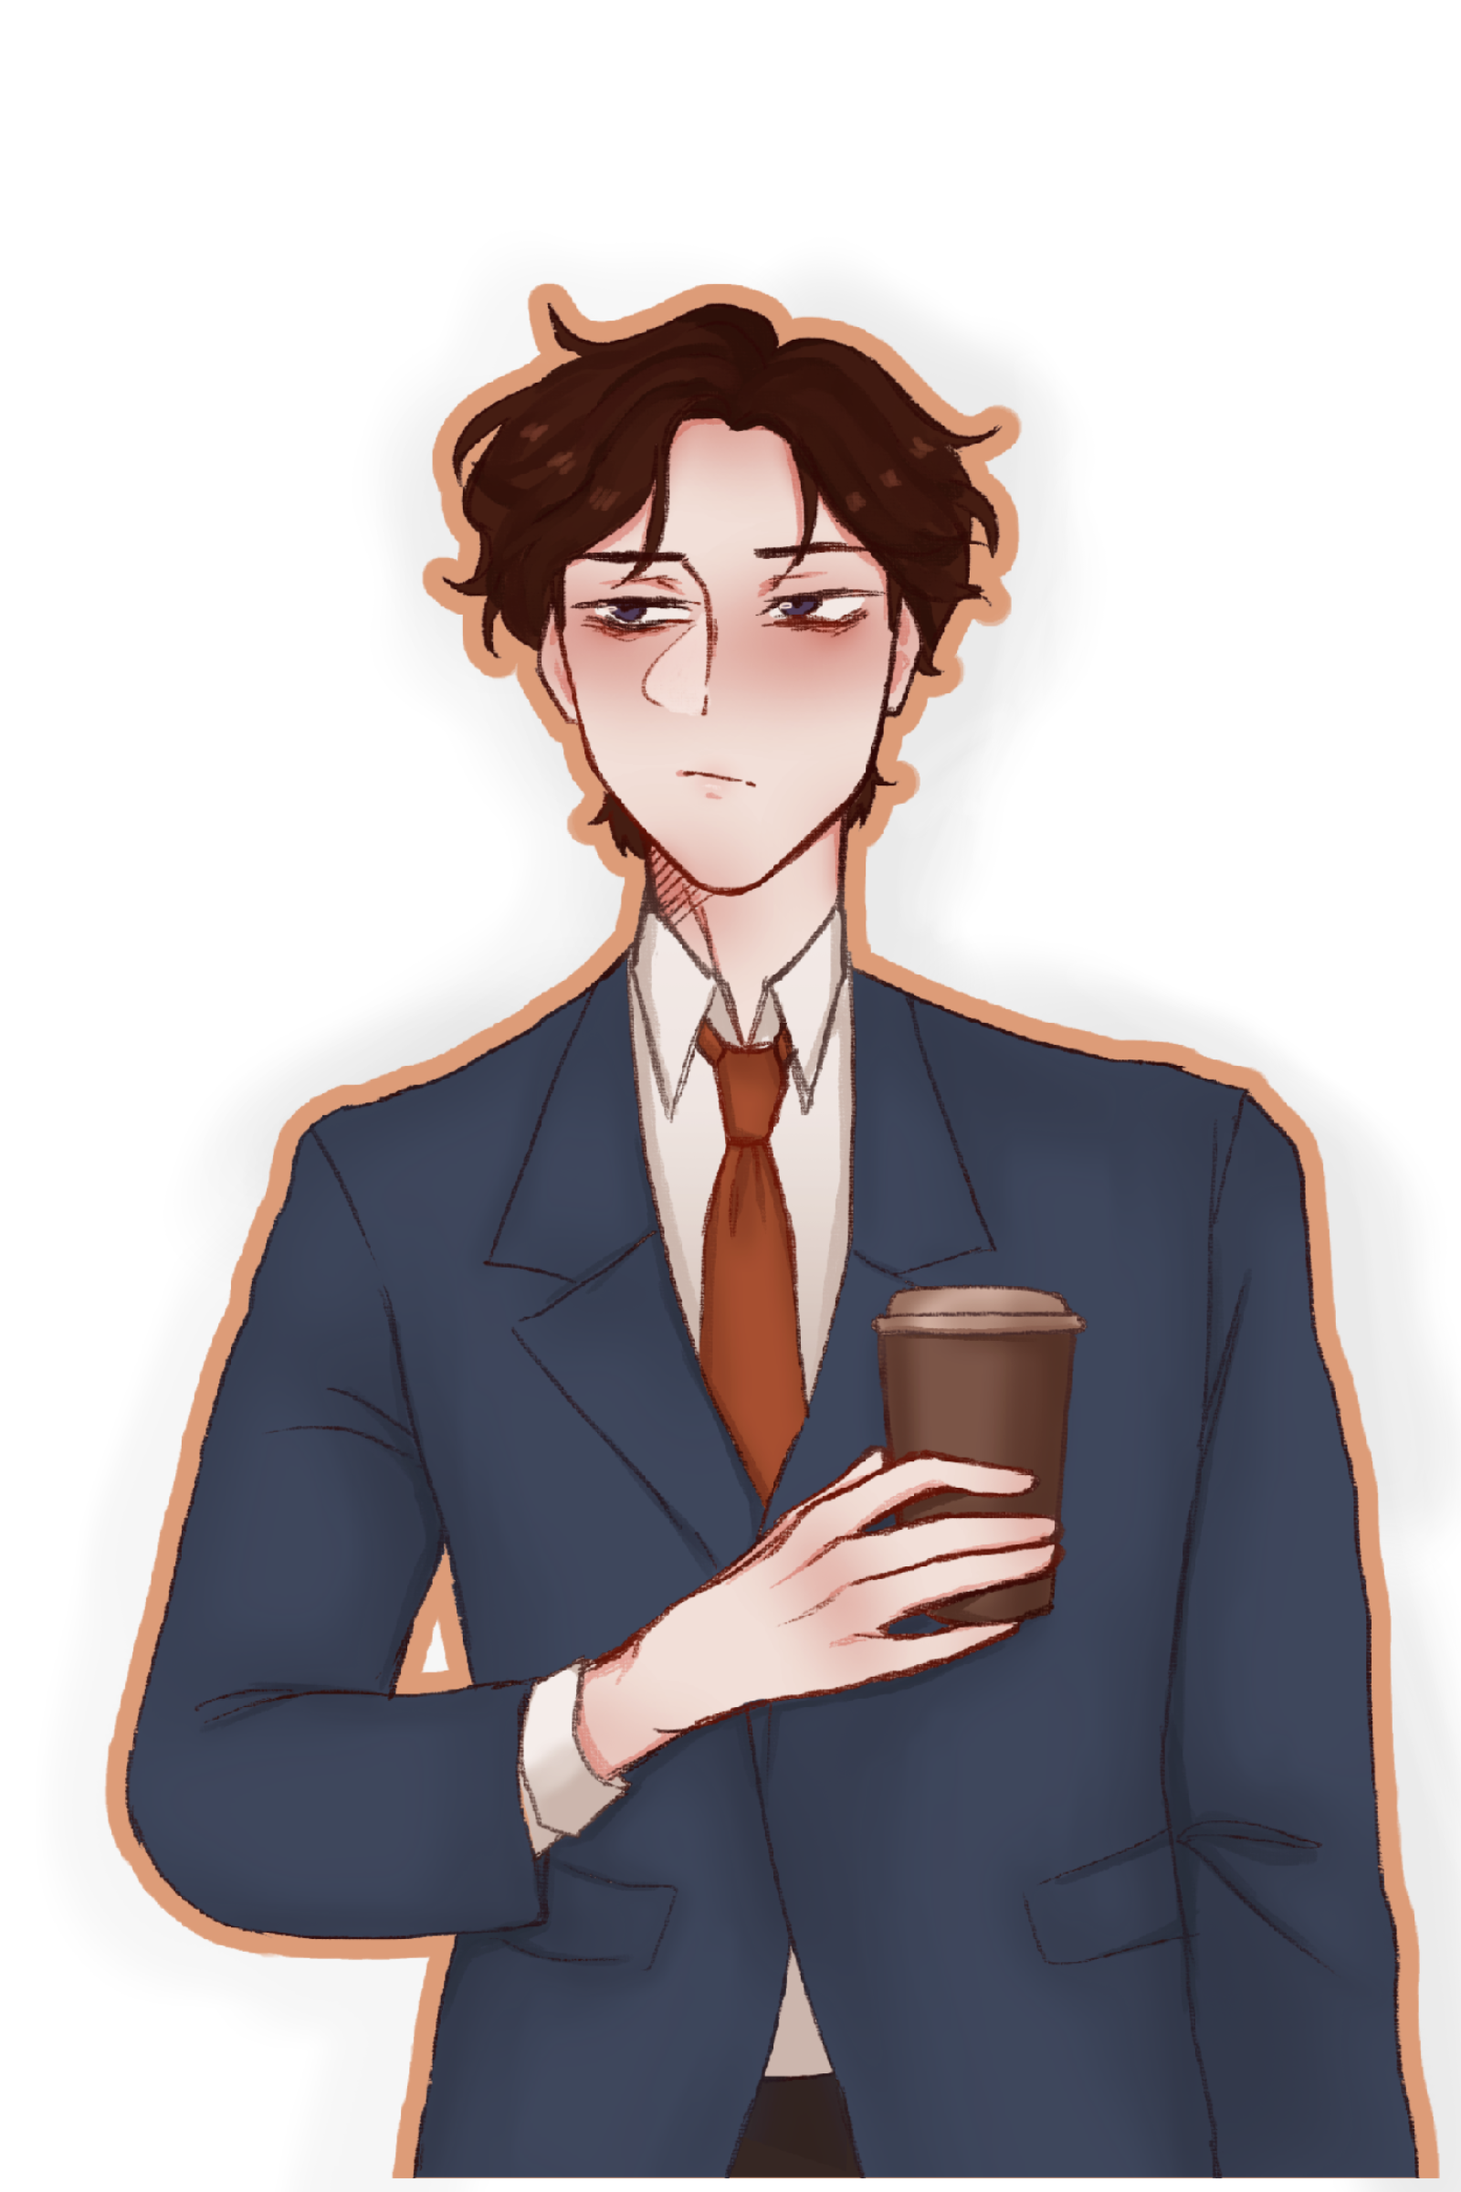
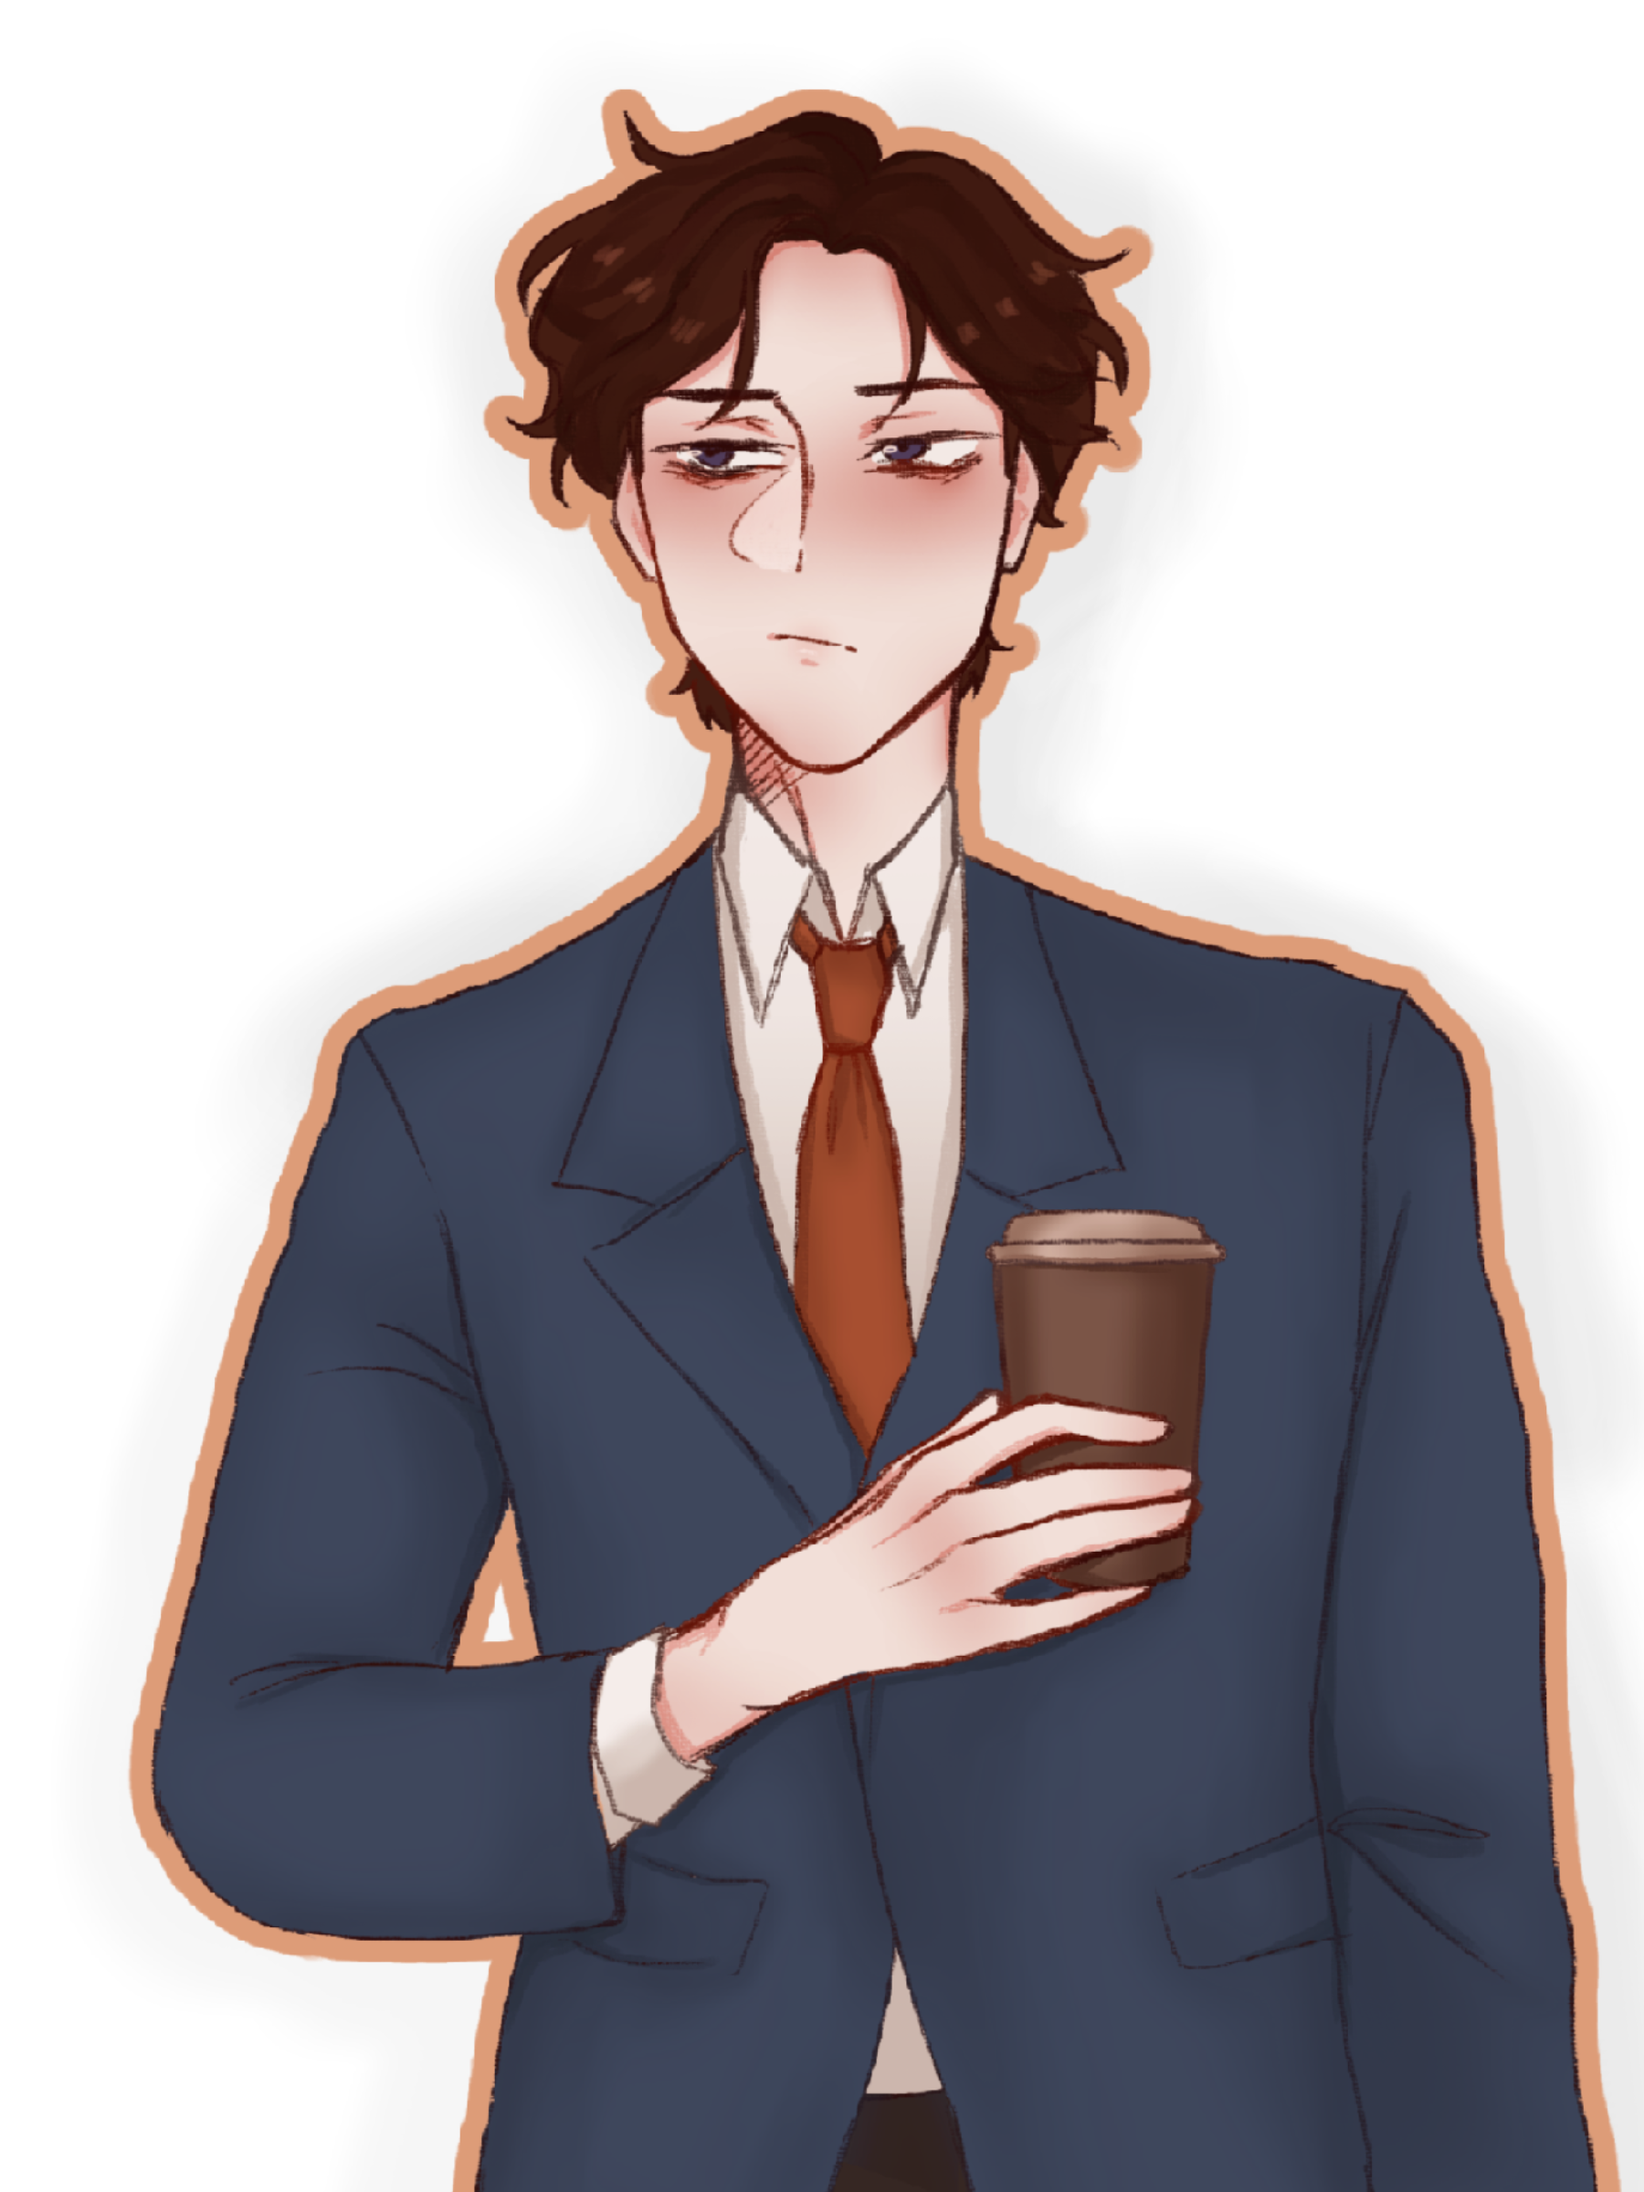
clean code

diff --git a/index.html b/index.html
@@ -40,14 +40,12 @@
   <div id="gradient"></div>
   
   <div class="container" id="bg_ruby">
-		<div class="section" id="Charapters">
-
-
-			<div class="block_character_info" class="color_ruby">
-				<div class="character_name" class="color_ruby">
+		<div class="section">
+			<div class="block_character_info">
+				<div class="character_name" id="color_ruby">
           <h2 class="text_name">Рубі<br>(Ruby)</h2>
         </div>
-        <div class="character_info" class="ruby_info ">
+        <div class="character_info" id="color_ruby">
           <h2 class= "text">
             <b>Займенник:</b> вона <br>
             <b>Зріст:</b> 169 <br>
@@ -59,21 +57,19 @@
           </h2>
         </div>
 			</div>
-
-
       <div class="sidebar">
-				<img class="sidebar_pic wow animate__animated animate__fadeInLeft" src="img/Ruby.png" alt="picture">
+				<img class="sidebar_pic wow animate__animated animate__fadeInLeft" src="img/Ruby.png" alt="picture"/>
 			</div>
 		</div>
 	</div>
 
-  <div class="container" id="python-back">
+  <div class="container" id="bg_python">
 		<div class="section">
 			<div class="block_character_info">
-				<div class="character_name" id="python">
+				<div class="character_name" id="color_python">
           <h2 class="text_name">Пай<br>(Python)</h2>
         </div>
-        <div class="character_info" id="python">
+        <div class="character_info" id="color_python">
           <h2 class= "text">
             <b>Займенник: </b>вона  <br>
             <b>Зріст:</b> 160 <br>
@@ -91,13 +87,13 @@
 		</div>
 	</div>
 
-  <div class="container" id="python-back">
+  <div class="container" id="bg_python">
 		<div class="section">
 			<div class="block_character_info">
-				<div class="character_name" id="python">
+				<div class="character_name" id="color_python">
           <h2 class="text_name"> Тон<br>(Python)</h2>
         </div>
-        <div class="character_info" id="python">
+        <div class="character_info" id="color_python">
           <h2 class= "text">
             <b>Займенник: </b>він  <br>
             <b>Зріст:</b> 170 <br>
@@ -115,13 +111,13 @@
 		</div>
 	</div>
 
-  <div class="container" id="java-back">
+  <div class="container" id="bg_java">
 		<div class="section">
 			<div class="block_character_info">
-				<div class="character_name" id="java">
+				<div class="character_name" id="color_java">
           <h2 class="text_name">Джава<br>(Java)</h2>
         </div>
-        <div class="character_info" id="java">
+        <div class="character_info" id="color_java">
           <h2 class= "text">
             <b>Займенник:</b> він <br>
             <b>Зріст:</b> 199 <br>
@@ -139,13 +135,13 @@
 		</div>
 	</div>
 
-  <div class="container" id="c-back">
+  <div class="container" id="bg_c">
 		<div class="section">
 			<div class="block_character_info">
-				<div class="character_name" id="c">
+				<div class="character_name" id="color_c">
           <h2 class="text_name"> Сі<br>(C++)</h2>
         </div>
-        <div class="character_info" id="c">
+        <div class="character_info" id="color_c">
           <h2 class= "text">
             <b>Займенник:</b> вона <br>
             <b>Зріст:</b> 165 <br>
@@ -163,13 +159,13 @@
 		</div>
 	</div>
 
-  <div class="container" id="js-back">
+  <div class="container" id="bg_js">
 		<div class="section">
 			<div class="block_character_info">
-				<div class="character_name" id="js">
+				<div class="character_name" id="color_js">
           <h2 class="text_name"> Ярик<br>(JavaScript)</h2>
         </div>
-        <div class="character_info" id="js">
+        <div class="character_info" id="color_js">
           <h2 class= "text">
             <b>Займенник:</b> вони <br>
             <b>Зріст:</b> 180 <br>

diff --git a/css/styles.css b/css/styles.css
@@ -86,15 +86,15 @@ body {
 
 
 #bg_ruby { background-color: #b0544c; }
-.color_ruby div { background-color: #eaa28e; }
+#color_ruby { background-color: #eaa28e; }
 #bg_python { background-color: #653c78; }
-.color_python{ background-color: #c383cf; }
+#color_python{ background-color: #c383cf; }
 #bg_java { background-color: #814822; }
-.color_java { background-color: #d69c74; }
+#color_java { background-color: #d69c74; }
 #bg_js { background-color: #bc983d }
-.color_js { background-color: #dab084;}
+#color_js { background-color: #dab084;}
 #bg_c { background-color: #413dbc; }
-.color_c { background-color: #848ada; }
+#color_c { background-color: #848ada; }
 
 #ruby_info{
    background-color: #eaa28e;
@@ -166,7 +166,7 @@ body {
 }
 .sidebar_pic{
     object-fit:cover;
-    width: 90%;
+    width: 75%;
    height: 100%; 
    margin:auto;
 }
